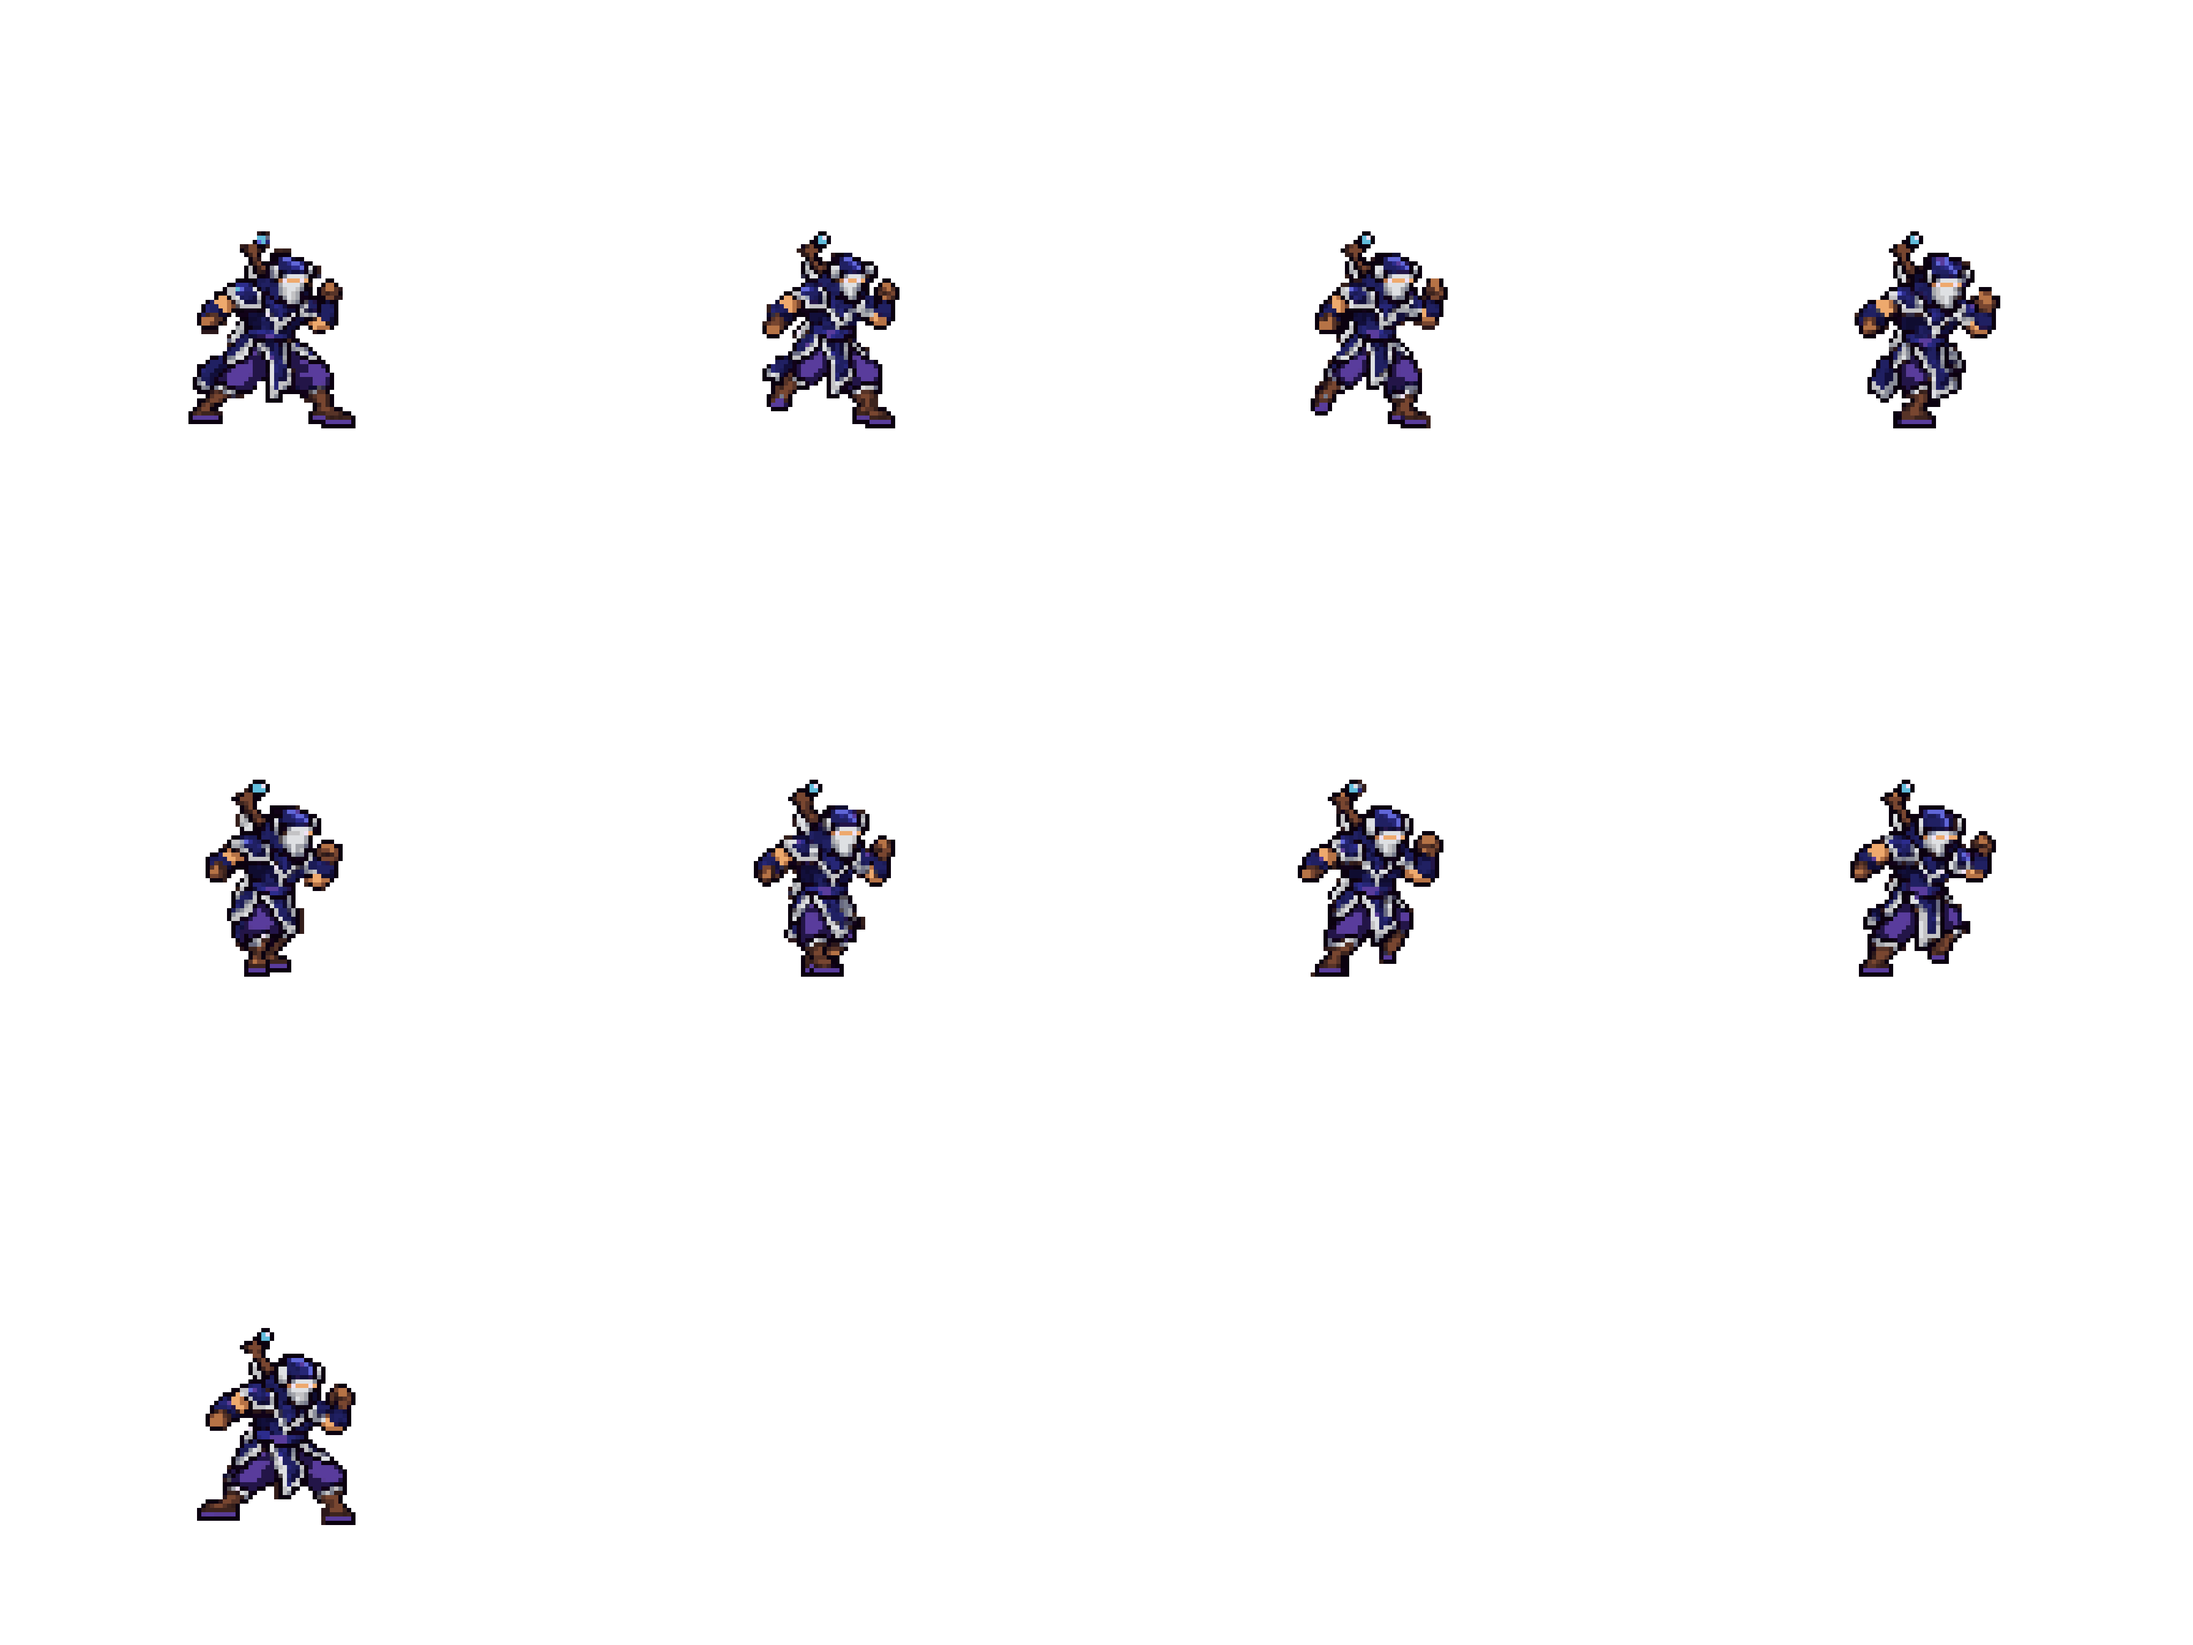
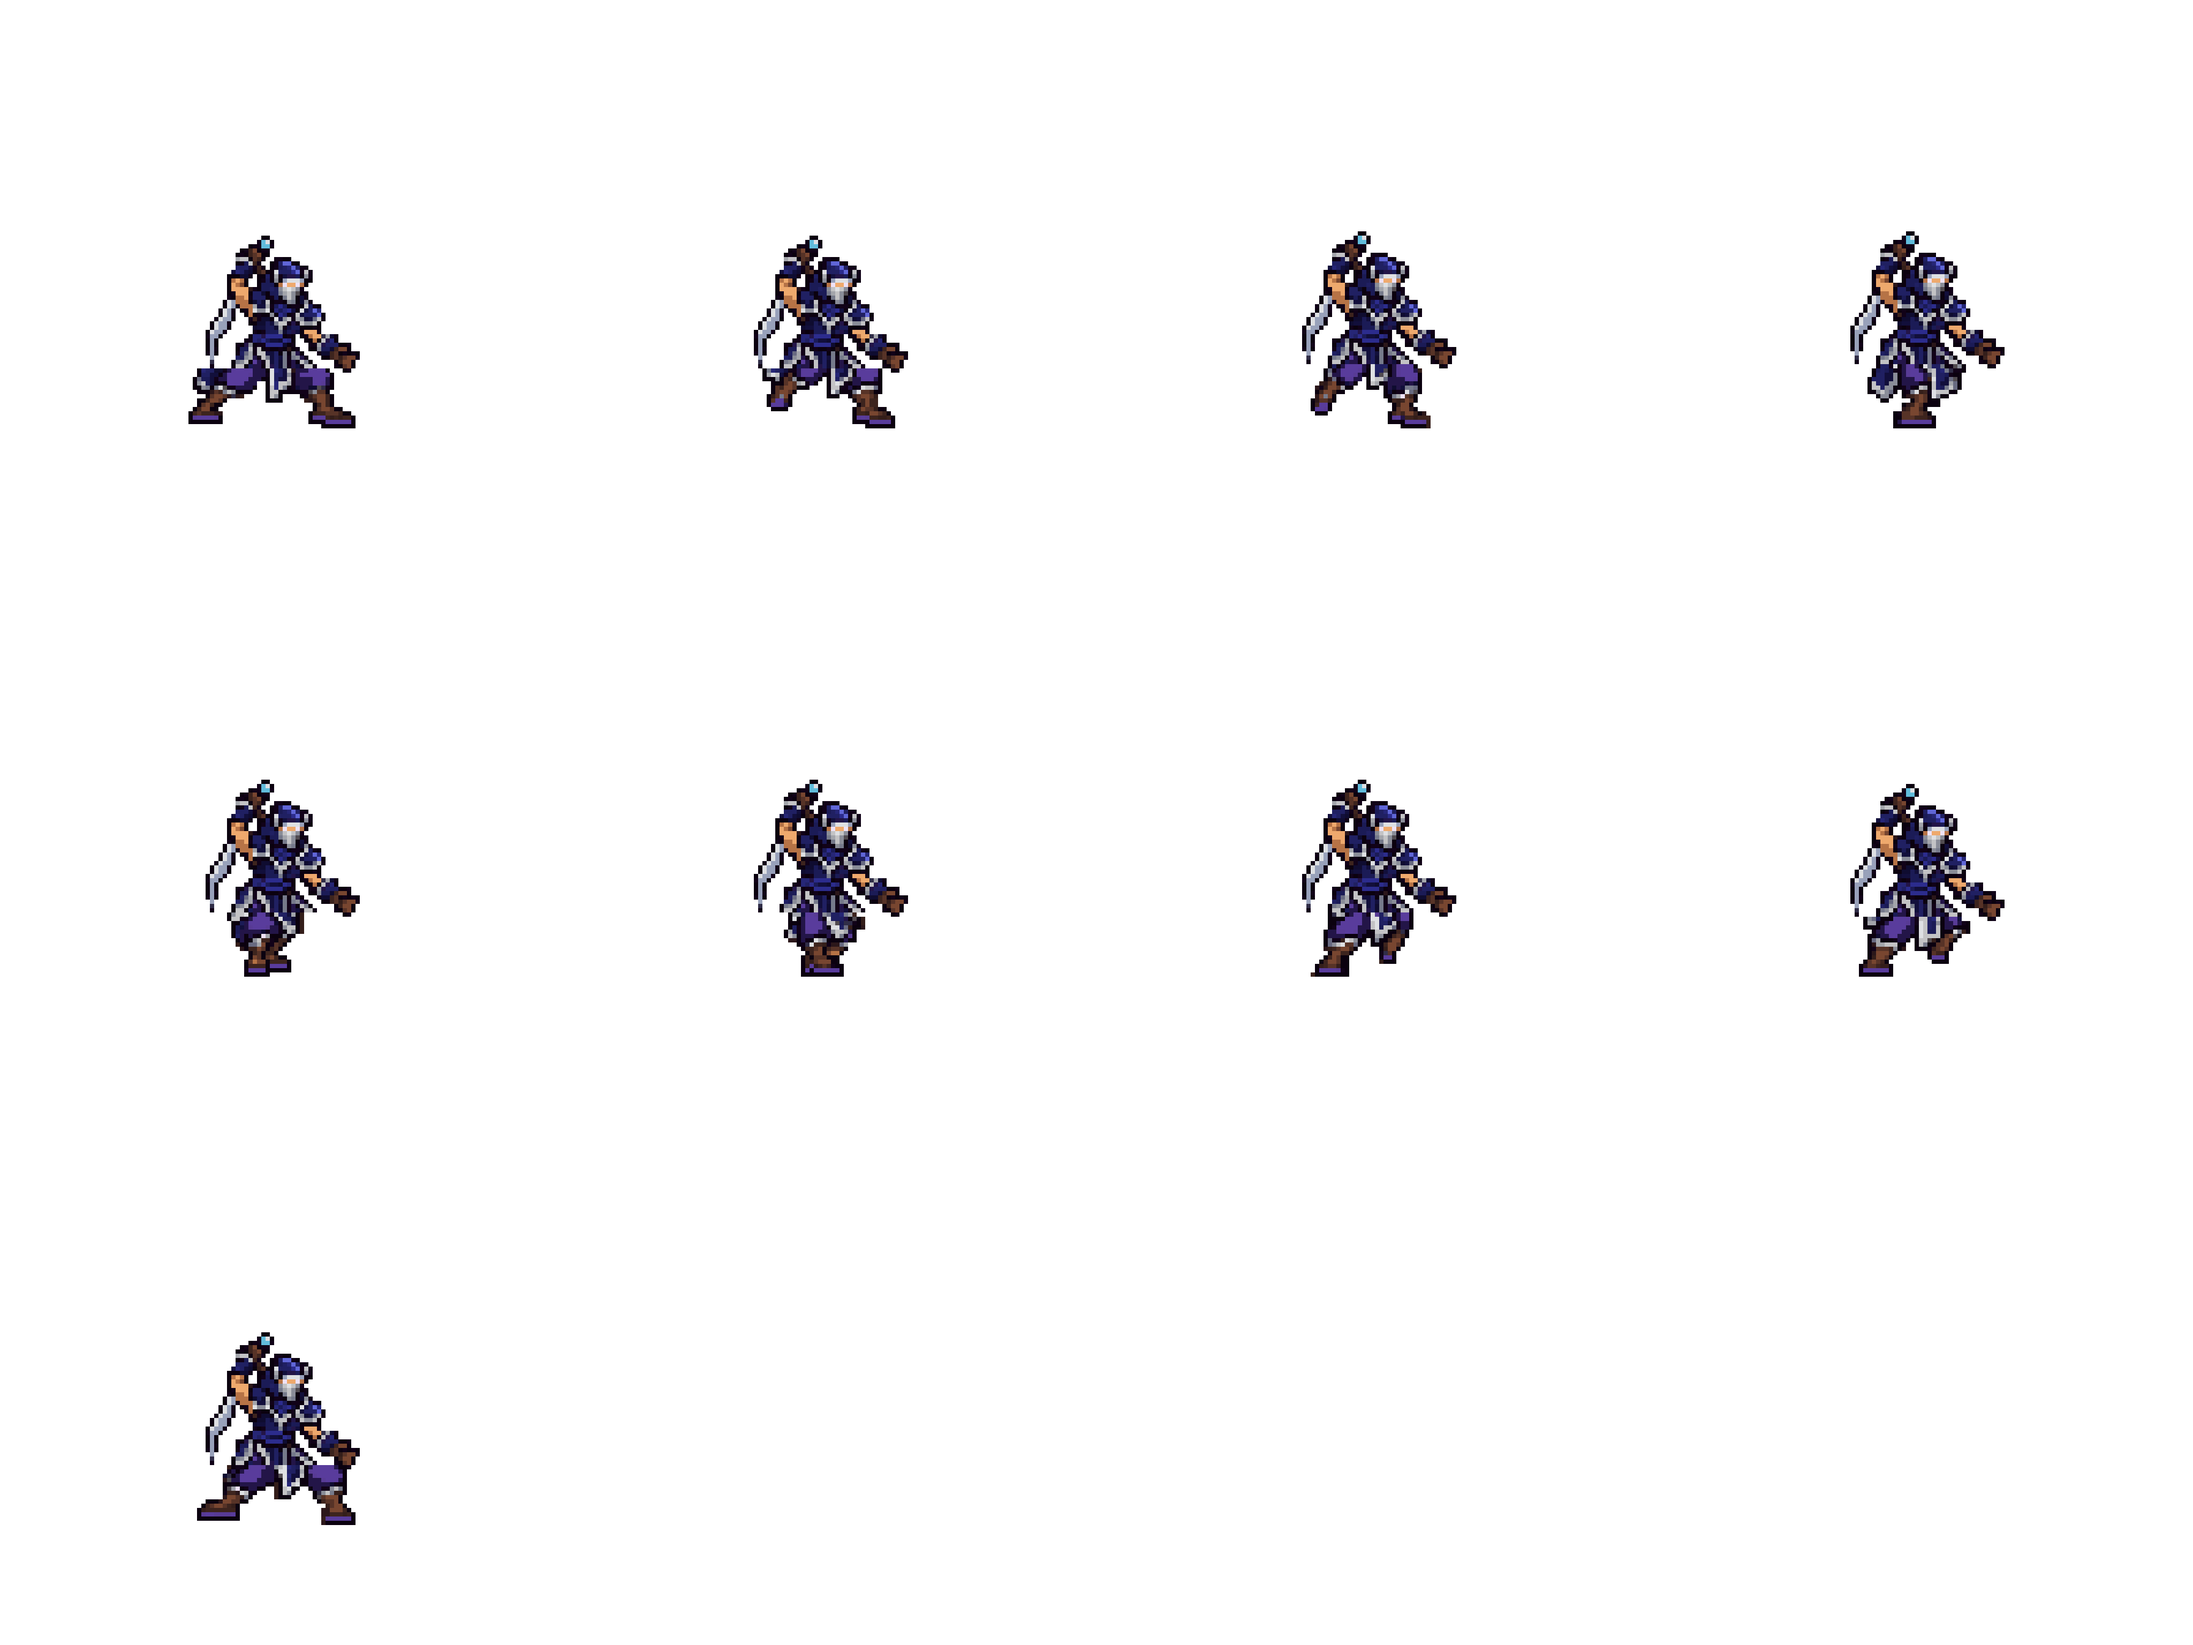
Shen (#85): run = the design's upper body over Codex's crossing legs
The user kept the legs and asked for the earlier upper body: the design's rows above
the hakama's waist, square for square, over Codex's legs, 1 row lower in the wide strides.

diff --git a/tools/art/fix_shen_strips.py b/tools/art/fix_shen_strips.py
@@ -56,6 +56,12 @@ CANVAS_SQUARE = 1254 / 128
 # bulbs hid behind the apron or rose into the sash; the user: 「腿变形严重了 交叉步也不对」.)
 RUN_SHEET = os.path.join(ROOT, "assets", "source", "shen", "codex_run_swap", "shen_run_3x3_1x.png")
 RUN_CELL, RUN_SOLES = 60, 55
+# The user kept Codex's legs and asked for the design's upper body (「腿部ok的 上半身用之前的」): the design's rows above
+# RUN_CUT (head, arms, sword, sash; its near hand down to row RUN_CUT + 1) square for square over Codex's legs and
+# hems below RUN_CUT, RUN_BOB rows lower per frame (down only).
+RUN_CUT = 85
+RUN_HAND_COL = 78
+RUN_BOB = [1, 1, 0, 0, 0, 0, 0, 1, 1]   # lowest in the wide strides (1-2, 8-9), up through the pass
 EYE = (239, 226, 246)
 SPECK = 4
 
@@ -385,7 +391,15 @@ def swap_frame(k, des):
     dy, dx = SOLES - RUN_SOLES, int(round(feet_mid(des, SOLES))) - RUN_CELL // 2
     ys, xs = np.nonzero(cell[..., 3] > 0)
     can[ys + dy, xs + dx] = cell[ys, xs]
-    return run_face(can)
+    bob = RUN_BOB[k - 1]
+    up = des.copy()
+    up[RUN_CUT:, :RUN_HAND_COL] = 0
+    up[RUN_CUT + 2:] = 0
+    up = shift(up, 0, bob)
+    can[:RUN_CUT + bob] = 0
+    m = up[..., 3] > 0
+    can[m] = up[m]
+    return can
 
 
 def sink(a, row, n):
